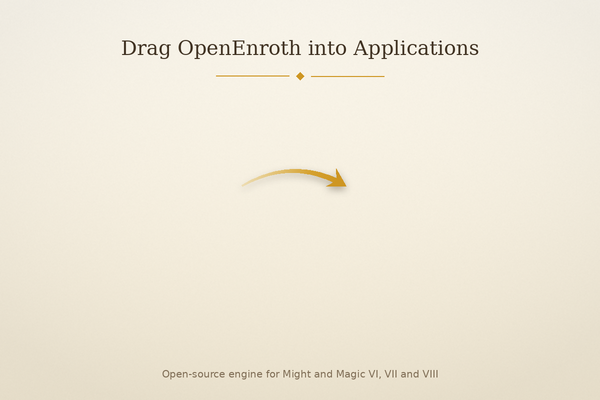
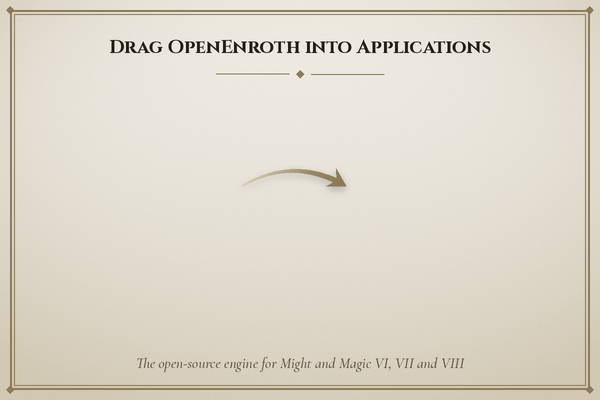
Redraw the dmg background in the MM7 winner certificate's colors
The background used a warm cream and a saturated gold that belong to no
part of the game. It takes its colors from winbg.pcx now, the certificate
MM7 shows after the final quest: a grayer sepia parchment darkening toward
the corners, bronze for the arrow and ornament, and a bronze double frame
in place of the certificate's knotwork. The certificate's own lettering is
the endgame.fnt bitmap font, a game asset that can't ship here, so the
title is set in Cinzel and the footer in Cormorant Garamond italic, both
under the SIL Open Font License. The generator takes the folder holding
those fonts as an argument.

make_dmg.sh takes the background as an argument now, like the app and the
icon. The dmgbuild settings read the window size from the background's PNG
header and place the icons at a quarter and three quarters of its width, so
a background drawn to those proportions lays out without editing the
settings. For the current background that is the same 600x400 window and
the same icon positions as before.

diff --git a/distribution/macos/GenerateDmgBackground.py b/distribution/macos/GenerateDmgBackground.py
@@ -1,10 +1,12 @@
 #!/usr/bin/env python3
 #
-# Draws the dmg window background at 1x and 2x: a parchment ground, a title, and a gold arrow from the app to the
-# Applications link. The layout matches dmg_settings.py, a 600x400 window with 128pt icons centered at (150, 190) and
-# (450, 190). Needs Pillow and the DejaVu fonts.
+# Draws the dmg window background at 1x and 2x, in the colors of the MM7 winner certificate: a sepia parchment ground
+# with a bronze double frame, a title, and a bronze arrow from the app to the Applications link. dmg_settings.py sizes
+# the window to the 1x image and centers the icons at a quarter and three quarters of its width, 47.5% down. Needs
+# Pillow, and Cinzel and Cormorant Garamond from https://github.com/google/fonts (ofl/cinzel, ofl/cormorantgaramond).
 #
-# Usage: GenerateDmgBackground.py <output.png> <output@2x.png>
+# Usage: GenerateDmgBackground.py <fonts-dir> <output.png> <output@2x.png>
+#   fonts-dir     - Folder holding Cinzel[wght].ttf and CormorantGaramond-Italic[wght].ttf
 
 import math
 import os
@@ -15,29 +17,25 @@ from PIL import Image, ImageDraw, ImageFilter, ImageFont
 
 S = 2 # Everything is drawn at 2x and downscaled for 1x.
 W, H = 600 * S, 400 * S
-APP = (150 * S, 190 * S)
-APPLICATIONS = (450 * S, 190 * S)
+APP = (W // 4, int(H * 0.475))
+APPLICATIONS = (W * 3 // 4, int(H * 0.475))
 
-GOLD = (206, 150, 34)
-GOLD_LIGHT = (232, 188, 76)
-INK = (64, 50, 34)
-INK_SOFT = (128, 110, 86)
-
-FONT_DIRS = [
-    '/usr/share/fonts/truetype/dejavu',
-    '/usr/share/fonts/TTF',
-    '/usr/share/fonts/dejavu',
-    os.path.expanduser('~/Library/Fonts'),
-    '/Library/Fonts',
-]
+PAPER_TOP = (242, 240, 235)
+PAPER_BOTTOM = (219, 212, 196)
+PAPER_EDGE = (201, 189, 165)
+BRONZE = (140, 123, 87)
+BRONZE_LIGHT = (185, 170, 139)
+BRONZE_DARK = (96, 83, 58)
+INK = (37, 32, 23)
 
 
-def font(name, size):
-    for directory in FONT_DIRS:
-        path = os.path.join(directory, name)
-        if os.path.isfile(path):
-            return ImageFont.truetype(path, size)
-    sys.exit(f'{name} not found, install the DejaVu fonts.')
+def font(fonts_dir, name, style, size):
+    path = os.path.join(fonts_dir, name)
+    if not os.path.isfile(path):
+        sys.exit(f'{path} not found.')
+    result = ImageFont.truetype(path, size)
+    result.set_variation_by_name(style)
+    return result
 
 
 def lerp(a, b, t):
@@ -45,20 +43,29 @@ def lerp(a, b, t):
 
 
 def parchment():
-    top, bottom = (251, 247, 237), (240, 231, 210)
     img = Image.new('RGB', (W, H))
     px = img.load()
     cx, cy = W / 2, H * 0.45
     rnd = random.Random(7) # Fixed seed, so the grain and the output files are reproducible.
     for y in range(H):
-        base = lerp(top, bottom, y / (H - 1))
+        base = lerp(PAPER_TOP, PAPER_BOTTOM, y / (H - 1))
         for x in range(W):
             dx, dy = (x - cx) / (W / 2), (y - cy) / (H / 2)
-            d = min(1.0, math.hypot(dx, dy) / 1.25)
-            v = 1.0 - 0.045 * d ** 2.5 # Faint vignette.
-            n = rnd.gauss(0, 1.3) # Paper grain.
-            px[x, y] = tuple(max(0, min(255, int(round(c * v + n)))) for c in base)
+            edge = min(1.0, math.hypot(dx, dy) / 1.3) ** 3 * 0.55 # Darkens toward the corners like aged paper.
+            n = rnd.gauss(0, 1.4) # Paper grain.
+            c = lerp(base, PAPER_EDGE, edge)
+            px[x, y] = tuple(max(0, min(255, int(round(v + n)))) for v in c)
     return img.filter(ImageFilter.GaussianBlur(0.5 * S))
+
+
+def frame(img):
+    d = ImageDraw.Draw(img)
+    outer, inner = 10 * S, 14 * S
+    d.rectangle((outer, outer, W - 1 - outer, H - 1 - outer), outline=BRONZE + (200,), width=2 * S)
+    d.rectangle((inner, inner, W - 1 - inner, H - 1 - inner), outline=BRONZE + (130,), width=S)
+    r = 4 * S
+    for x, y in ((outer, outer), (W - 1 - outer, outer), (outer, H - 1 - outer), (W - 1 - outer, H - 1 - outer)):
+        d.polygon([(x, y - r), (x + r, y), (x, y + r), (x - r, y)], fill=BRONZE + (230,))
 
 
 def bezier(p0, p1, p2, steps):
@@ -95,16 +102,16 @@ def draw_arrow(img):
 
     shadow = Image.new('RGBA', img.size, (0, 0, 0, 0))
     d = ImageDraw.Draw(shadow)
-    stroke(d, shaft, 3 * S, lambda t: (70, 45, 10, int(40 + 50 * t)), width_at)
-    d.polygon([(x, y + 3 * S) for x, y in head], fill=(70, 45, 10, 90))
+    stroke(d, shaft, 3 * S, lambda t: BRONZE_DARK + (int(30 + 45 * t),), width_at)
+    d.polygon([(x, y + 3 * S) for x, y in head], fill=BRONZE_DARK + (80,))
     img.alpha_composite(shadow.filter(ImageFilter.GaussianBlur(3.5 * S)))
 
     body = Image.new('RGBA', img.size, (0, 0, 0, 0))
     d = ImageDraw.Draw(body)
     stroke(d, shaft, 0,
-           lambda t: tuple(int(c) for c in lerp(GOLD_LIGHT, GOLD, t)) + (int(70 + 185 * min(1.0, t * 1.4)),),
+           lambda t: tuple(int(c) for c in lerp(BRONZE_LIGHT, BRONZE, t)) + (int(80 + 175 * min(1.0, t * 1.4)),),
            width_at)
-    d.polygon(head, fill=GOLD + (255,))
+    d.polygon(head, fill=BRONZE + (255,))
     img.alpha_composite(body)
 
 
@@ -119,27 +126,30 @@ def ornament(img, y):
     cx, half, gap = W / 2, 84 * S, 11 * S
     for sign in (-1, 1):
         for i in range(int(half - gap)):
-            a = int(200 * (1 - i / (half - gap)) ** 1.2)
+            a = int(210 * (1 - i / (half - gap)) ** 1.2)
             x = cx + sign * (gap + i)
-            d.line([(x, y), (x + sign, y)], fill=GOLD + (a,), width=S)
+            d.line([(x, y), (x + sign, y)], fill=BRONZE + (a,), width=S)
     r = 4 * S
-    d.polygon([(cx, y - r), (cx + r, y), (cx, y + r), (cx - r, y)], fill=GOLD + (235,))
+    d.polygon([(cx, y - r), (cx + r, y), (cx, y + r), (cx - r, y)], fill=BRONZE + (240,))
 
 
 def main():
-    if len(sys.argv) != 3:
-        sys.exit(f'Usage: {sys.argv[0]} output.png output@2x.png')
+    if len(sys.argv) != 4:
+        sys.exit(f'Usage: {sys.argv[0]} <fonts-dir> <output.png> <output@2x.png>')
+    fonts_dir = sys.argv[1]
 
     img = parchment().convert('RGBA')
+    frame(img)
     draw_arrow(img)
-    centered_text(img, 36 * S, 'Drag OpenEnroth into Applications', font('DejaVuSerif.ttf', 20 * S), INK + (255,))
-    ornament(img, 76 * S)
-    centered_text(img, H - 32 * S, 'Open-source engine for Might and Magic VI, VII and VIII',
-                  font('DejaVuSans.ttf', 10 * S), INK_SOFT + (255,))
+    centered_text(img, 34 * S, 'Drag OpenEnroth into Applications',
+                  font(fonts_dir, 'Cinzel[wght].ttf', 'Bold', 19 * S), INK + (255,))
+    ornament(img, 74 * S)
+    centered_text(img, H - 46 * S, 'The open-source engine for Might and Magic VI, VII and VIII',
+                  font(fonts_dir, 'CormorantGaramond-Italic[wght].ttf', 'Medium Italic', 15 * S), BRONZE_DARK + (255,))
 
     img = img.convert('RGB')
-    img.resize((W // S, H // S), Image.LANCZOS).save(sys.argv[1], optimize=True)
-    img.save(sys.argv[2], optimize=True)
+    img.resize((W // S, H // S), Image.LANCZOS).save(sys.argv[2], optimize=True)
+    img.save(sys.argv[3], optimize=True)
 
 
 if __name__ == '__main__':

diff --git a/distribution/macos/dmg_settings.py b/distribution/macos/dmg_settings.py
@@ -1,19 +1,22 @@
 # dmgbuild settings for the OpenEnroth disk image, see make_dmg.sh. Values passed with -D arrive in `defines`.
 import os.path
+import struct
 
 application = defines['app']
+background = defines['background']
 
 format = 'ULMO'
 files = [application]
 symlinks = {'Applications': '/Applications'}
 icon = defines['icon']
 
-# The background is drawn for this window size and these icon positions.
-background = defines['background']
-window_rect = ((200, 120), (600, 400))
+# The window takes the size of the background, and the icons sit where GenerateDmgBackground.py draws around them.
+with open(background, 'rb') as f:
+    width, height = struct.unpack('>II', f.read(24)[16:24]) # PNG IHDR, right after the 8-byte signature and chunk header.
+window_rect = ((200, 120), (width, height))
 icon_size = 128
 text_size = 12
 icon_locations = {
-    os.path.basename(application): (150, 190),
-    'Applications': (450, 190),
+    os.path.basename(application): (width // 4, int(height * 0.475)),
+    'Applications': (width * 3 // 4, int(height * 0.475)),
 }
